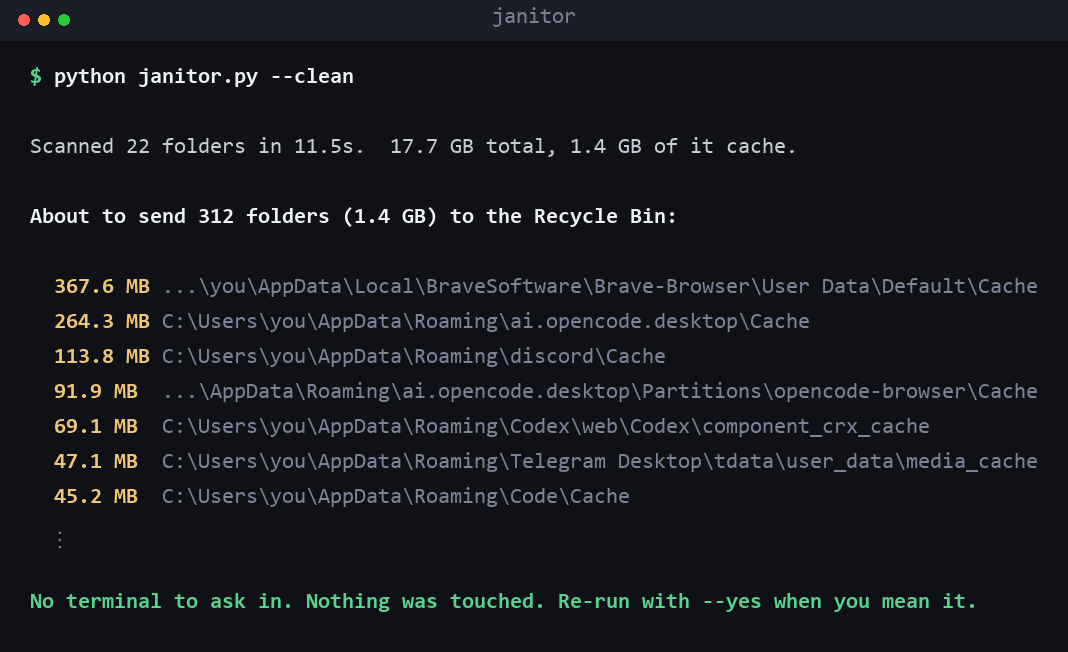
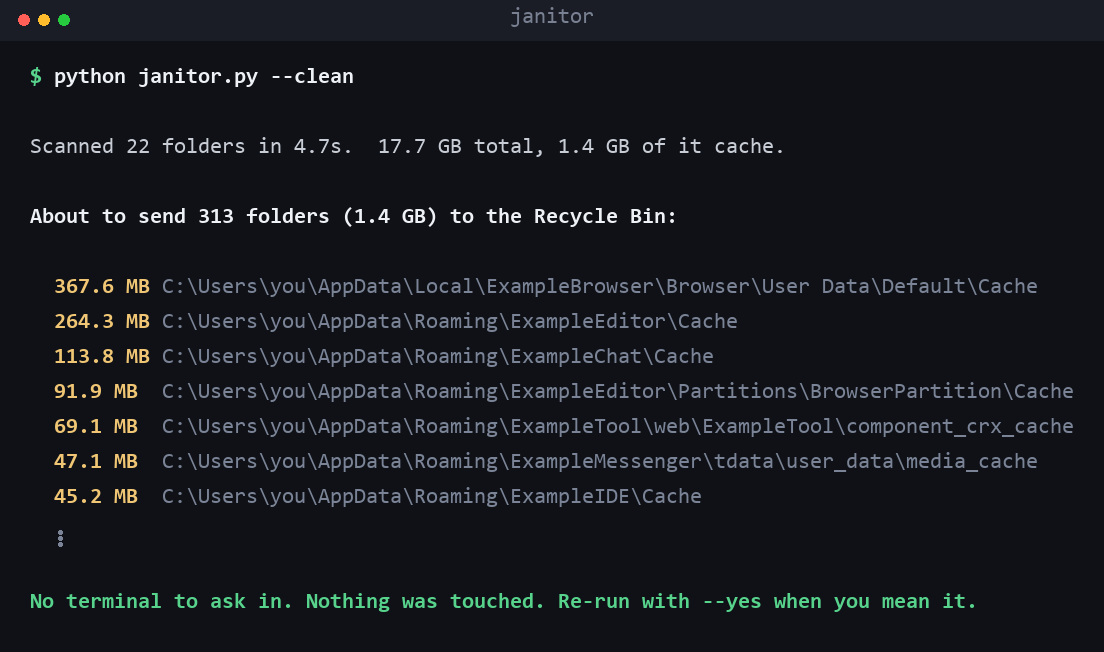
docs: replace app names in the screenshot too
Brave, Discord, Telegram, Codex and VS Code become Example* so the image shows no software list. Sizes unchanged.

diff --git a/README.md b/README.md
@@ -6,7 +6,7 @@ Tells you what is eating your disk, in plain words, and only then offers to move
 
 <img src="docs/demo.png" width="880" alt="janitor printing the folders it would recycle, then refusing to act without a yes">
 
-<sub>Folder names are shown as `C:\Users\you`. The sizes are real.</sub>
+<sub>Paths and app names are replaced. The sizes are real.</sub>
 
 Three verdicts, and nothing else:
 
